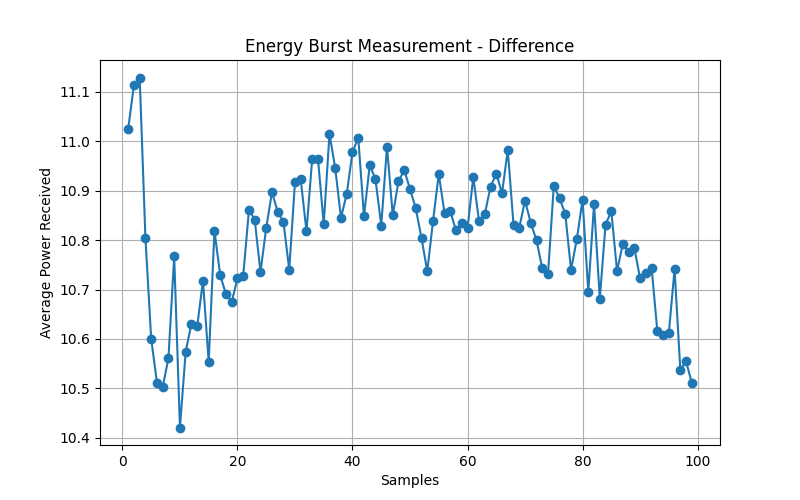
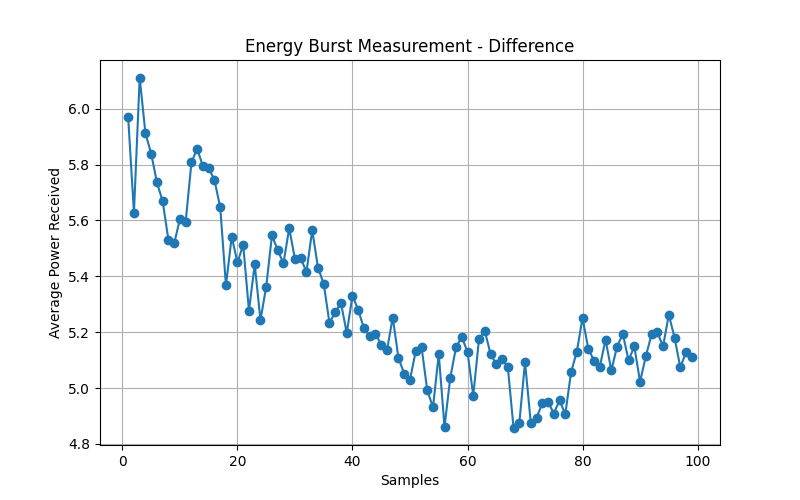
refined code

diff --git a/GUI/main.py b/GUI/main.py
@@ -497,7 +497,7 @@ def oam_page():
                 fig.data[0].x = t_values
                 fig.data[0].y = energy_values
                 try:
-                    fig.update_yaxes(range=[0,800])
+                    fig.update_yaxes(range=[0,400])
                 except Exception:
                     pass #temporary invalid values
                 live_plot.update()  # NiceGUI triggers plot update
@@ -655,8 +655,8 @@ def oam_page():
                     ui.image('media/power_diff_plane.png').style('width:60%;').force_reload()
 
         def plot_comparison():
-            e_diff_plane = burst_data_oam['scatterer']['energy'] - burst_data_oam['baseline']['energy']
-            e_diff_structured = burst_data_oam['scatterer_plane']['energy'] - burst_data_oam['baseline']['energy']
+            e_diff_structured = burst_data_oam['scatterer']['energy'] - burst_data_oam['baseline']['energy']
+            e_diff_plane = burst_data_oam['scatterer_plane']['energy'] - burst_data_oam['baseline']['energy']
             x = np.arange(len(e_diff_structured))
 # Plot comparison
             plt.figure(figsize=(8,5))
@@ -868,7 +868,7 @@ def hermite_page():
                 fig.data[0].x = t_values
                 fig.data[0].y = energy_values
                 try:
-                    fig.update_yaxes(range=[0,800])
+                    fig.update_yaxes(range=[0,400])
                 except Exception:
                     pass #temporary invalid values
                 live_plot.update()  # NiceGUI triggers plot update
@@ -1024,8 +1024,8 @@ def hermite_page():
                     ui.image('media/power_diff_plane.png').style('width:60%;').force_reload()
 
         def plot_comparison():
-            e_diff_plane = burst_data_hermite['scatterer']['energy'] - burst_data_hermite['baseline']['energy']
-            e_diff_structured = burst_data_hermite['scatterer_plane']['energy'] - burst_data_hermite['baseline']['energy']
+            e_diff_structured = burst_data_hermite['scatterer']['energy'] - burst_data_hermite['baseline']['energy']
+            e_diff_plane = burst_data_hermite['scatterer_plane']['energy'] - burst_data_hermite['baseline']['energy']
             x = np.arange(len(e_diff_structured))
 # Plot comparison
             plt.figure(figsize=(8,5))
@@ -1097,19 +1097,19 @@ def hermite_page():
              
             ui.button("Send Phases", on_click=lambda: send_phases_for_planewave(theta.value,phi.value))
     
-            #Step 7 Measure Scattering
-            ui.label("Step 7: Measure Scattering from Plane Wave").style('order: 16;')
-            ui.image('media/Step3.jpeg').style('order: 17; width: 30%;')
-            ui.button("Start", on_click=lambda:plot_scatterer(plane=True)).style('order: 18;')
+        #Step 7 Measure Scattering
+        ui.label("Step 7: Measure Scattering from Plane Wave").style('order: 16;')
+        ui.image('media/Step3.jpeg').style('order: 17; width: 30%;')
+        ui.button("Start", on_click=lambda:plot_scatterer(plane=True)).style('order: 18;')
 
-            #Step 8 Perform Subtraction
-            ui.label("Step 8: Show Difference (Planewave - Basline Scattering)").style('order: 20;')
-            ui.button("Show Difference", on_click=lambda:plot_difference(plane=True)).style('order: 21;')
+        #Step 8 Perform Subtraction
+        ui.label("Step 8: Show Difference (Planewave - Basline Scattering)").style('order: 20;')
+        ui.button("Show Difference", on_click=lambda:plot_difference(plane=True)).style('order: 21;')
 
-            #Step 9 Compre the plane wave illuminaiton and structured illumination scattering 
-            ui.label("Step 9: Compare the scattering under different illuminations").style('order: 23;')
-            ui.button('Compare', on_click=lambda:plot_comparison()).style('order: 24;')
-            
+        #Step 9 Compre the plane wave illuminaiton and structured illumination scattering 
+        ui.label("Step 9: Compare the scattering under different illuminations").style('order: 23;')
+        ui.button('Compare', on_click=lambda:plot_comparison()).style('order: 24;')
+        
 
 
 #----Beam Steering----
